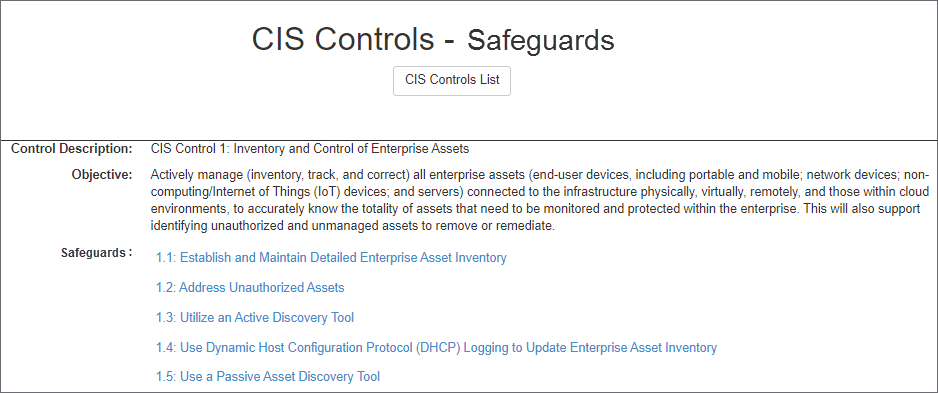
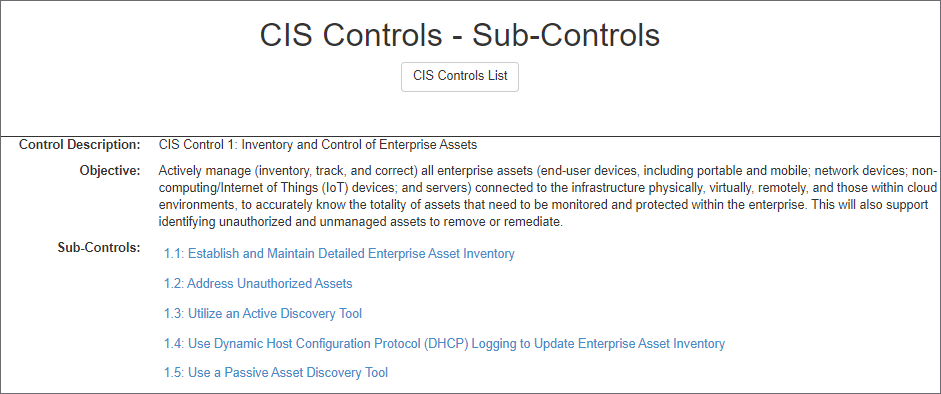
Controls 8 update

diff --git a/docs/source/Dashboard User's Guide.md b/docs/source/Dashboard User's Guide.md
@@ -632,10 +632,10 @@ Report scores will match report scores as shown on CIS-CAT Pro Assessor v4 HTML 
 	- Apply exceptions to a recommendations from this view<br/><br/>
   
 2. **CIS Controls View**<br/>Not all Benchmarks will be mapped to a CIS Control. Only the latest CIS Benchmark versions will be mapped to the latest version of CIS Controls.<br/>
-	- Test results presented in CIS Controls structure where mappings are present to CIS Controls and Safeguards(previously known as Sub-Controls)
+	- Test results presented in CIS Controls structure where mappings are present to CIS Controls and Sub-Controls(most recently known as Safeguards)
 	- View is useful when identifying which recommendations represent or support a CIS Control
-	- Counts in brackets indicate the count of recommendations mapped to a CIS Safeguard
-	- Empty brackets indicate that there are no recommendations are mapped to a CIS Safeguard for the selected CIS Controls
+	- Counts in brackets indicate the count of recommendations mapped to a CIS Sub-Control
+	- Empty brackets indicate that there are no recommendations are mapped to a CIS CIS Sub-Control for the selected CIS Controls
 	- Toggle CIS Controls version displayed using the "CIS Controls Version" dropdown in the header section.<br/> <br/>
 ![](https://i.imgur.com/6rtb18r.png)
 <br/><br/>  
@@ -841,7 +841,7 @@ Once selected, the additional details of a CIS Benchmark are available. Review t
 ![](https://i.imgur.com/Z33gVPG.png)
 <br/><br/>**Results View** - The list of recommendations organized into the groups. Each group is expandable to display additional sub-groups. All Benchmark information displayed is imported at the time the first configuration assessment test result for a particular benchmark is imported. The content displayed is the content imported and cannot be modified in CIS-CAT Pro Dashboard.
 ![](https://i.imgur.com/9Z0dP1r.png)
-<br/><br/>**CIS Controls View** - The list of recommendations presented by CIS Controls. Where possible, recommendations are mapped to a CIS Controls Safeguard using metadata from the imported benchmark content. It is not possible for all recommendations to relate directly to a CIS Control Safeguard (formerly known as Sub-Controls). 
+<br/><br/>**CIS Controls View** - The list of recommendations presented by CIS Controls. Where possible, recommendations are mapped to a CIS Controls CIS Sub-Control using metadata from the imported benchmark content. It is not possible for all recommendations to relate directly to a CIS Sub-Control (also known as Safeguards). 
 <br/><br/>Change the CIS Controls version displayed by selecting a different version in the "CIS Controls Version" dropdown on the General tab.<br/> Below is an example of the CIS Controls View screen:
 
 ![](https://i.imgur.com/6rtb18r.png)
@@ -862,7 +862,7 @@ The CIS Controls reflect the combined knowledge of experts from every part of th
 
 ![](img\Controls8.png)
 
-CIS Controls V7 is the default CIS Controls shown when viewing a Configuration Assessment Result in the Controls View. Note that CIS Controls V7.0 is the same as V7.1. In this view, it is possible to toggle to CIS Controls V8. [CIS Controls V8 was released](https://www.cisecurity.org/controls/v8/) in May 2021. CIS Controls V8 has reduced the list of 20 CIS Controls to 18. "Safeguards" were previously known as "Sub-Controls" prior to Version 8 of the CIS Controls.
+CIS Controls V7 is the default CIS Controls shown when viewing a Configuration Assessment Result in the Controls View. Note that CIS Controls V7.0 is the same as V7.1. In this view, it is possible to toggle to CIS Controls V8. [CIS Controls V8 was released](https://www.cisecurity.org/controls/v8/) in May 2021. CIS Controls V8 has reduced the list of 20 CIS Controls to 18. Please note that Safeguard is the newer term in CIS Controls v8, while Sub-Control was the term used previously in CIS Controls v7.0/v7.1.
 
 
 Select a CIS Controls version to view additional information for each Control:
@@ -871,11 +871,11 @@ Select a CIS Controls version to view additional information for each Control:
 
 **View**
 
-Select a CIS Control from the CIS Controls V8 to list the supporting Safeguards.
+Select a CIS Control from the CIS Controls V8 to list the supporting SubControl.
 
-![](img\CISSafeguardList.png)
+![](img\CISSubcontrolList.png)
 
-Select a CIS Control Safeguard to learn more details. Safeguards fall into CIS Controls Implementation Groups (IGs). Implementation Groups are recommended guidance to prioritize implementation. Implementation Group 1 is definded as "basic cyber hygiene," the foundational set of cyber defense Safeguards that every enterprise should apply to guard against the most common attacks. Each IG builds upon the previous one: IG2 includes IG1, and IG3 includes all CIS Safeguards in IG1 and IG2.
+Select a CIS Sub-Control to learn more details. Sub-Controls fall into CIS Controls Implementation Groups (IGs). Implementation Groups are recommended guidance to prioritize implementation. Implementation Group 1 is definded as "basic cyber hygiene," the foundational set of cyber defense Sub-Controls that every enterprise should apply to guard against the most common attacks. Each IG builds upon the previous one: IG2 includes IG1, and IG3 includes all CIS Sub-Controls in IG1 and IG2.
 
 ![](img\Safeguard.png)
 
